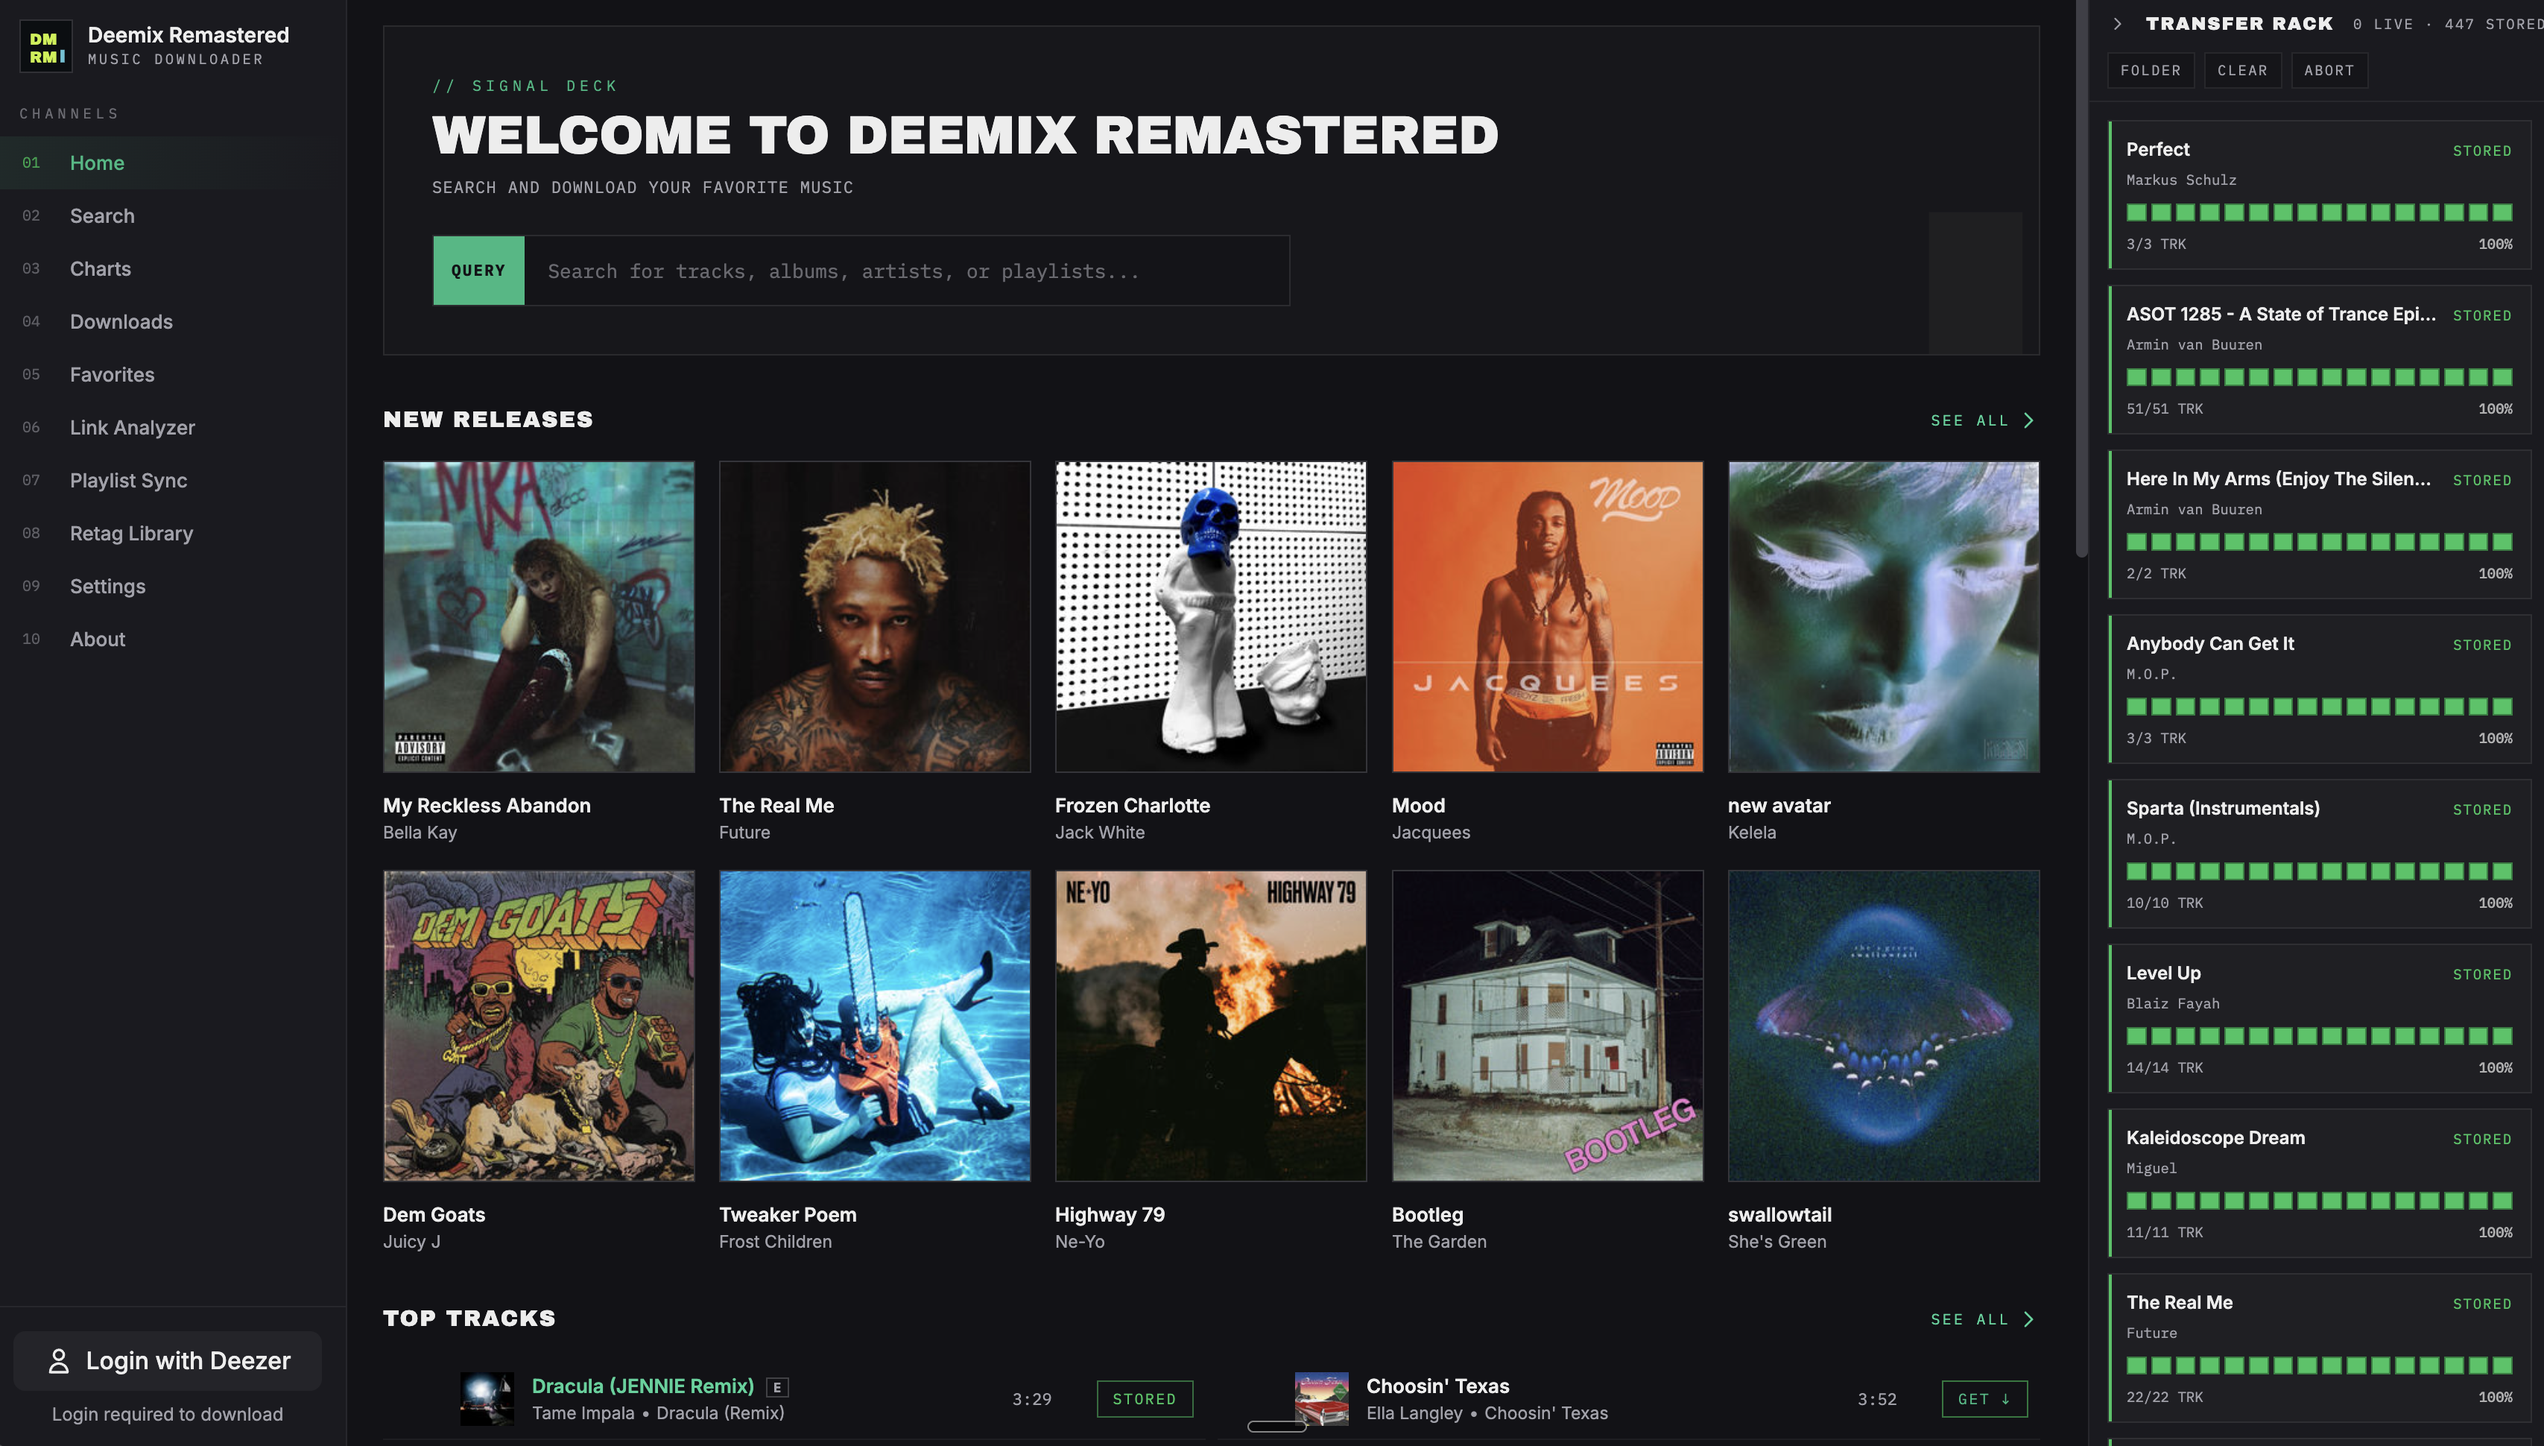
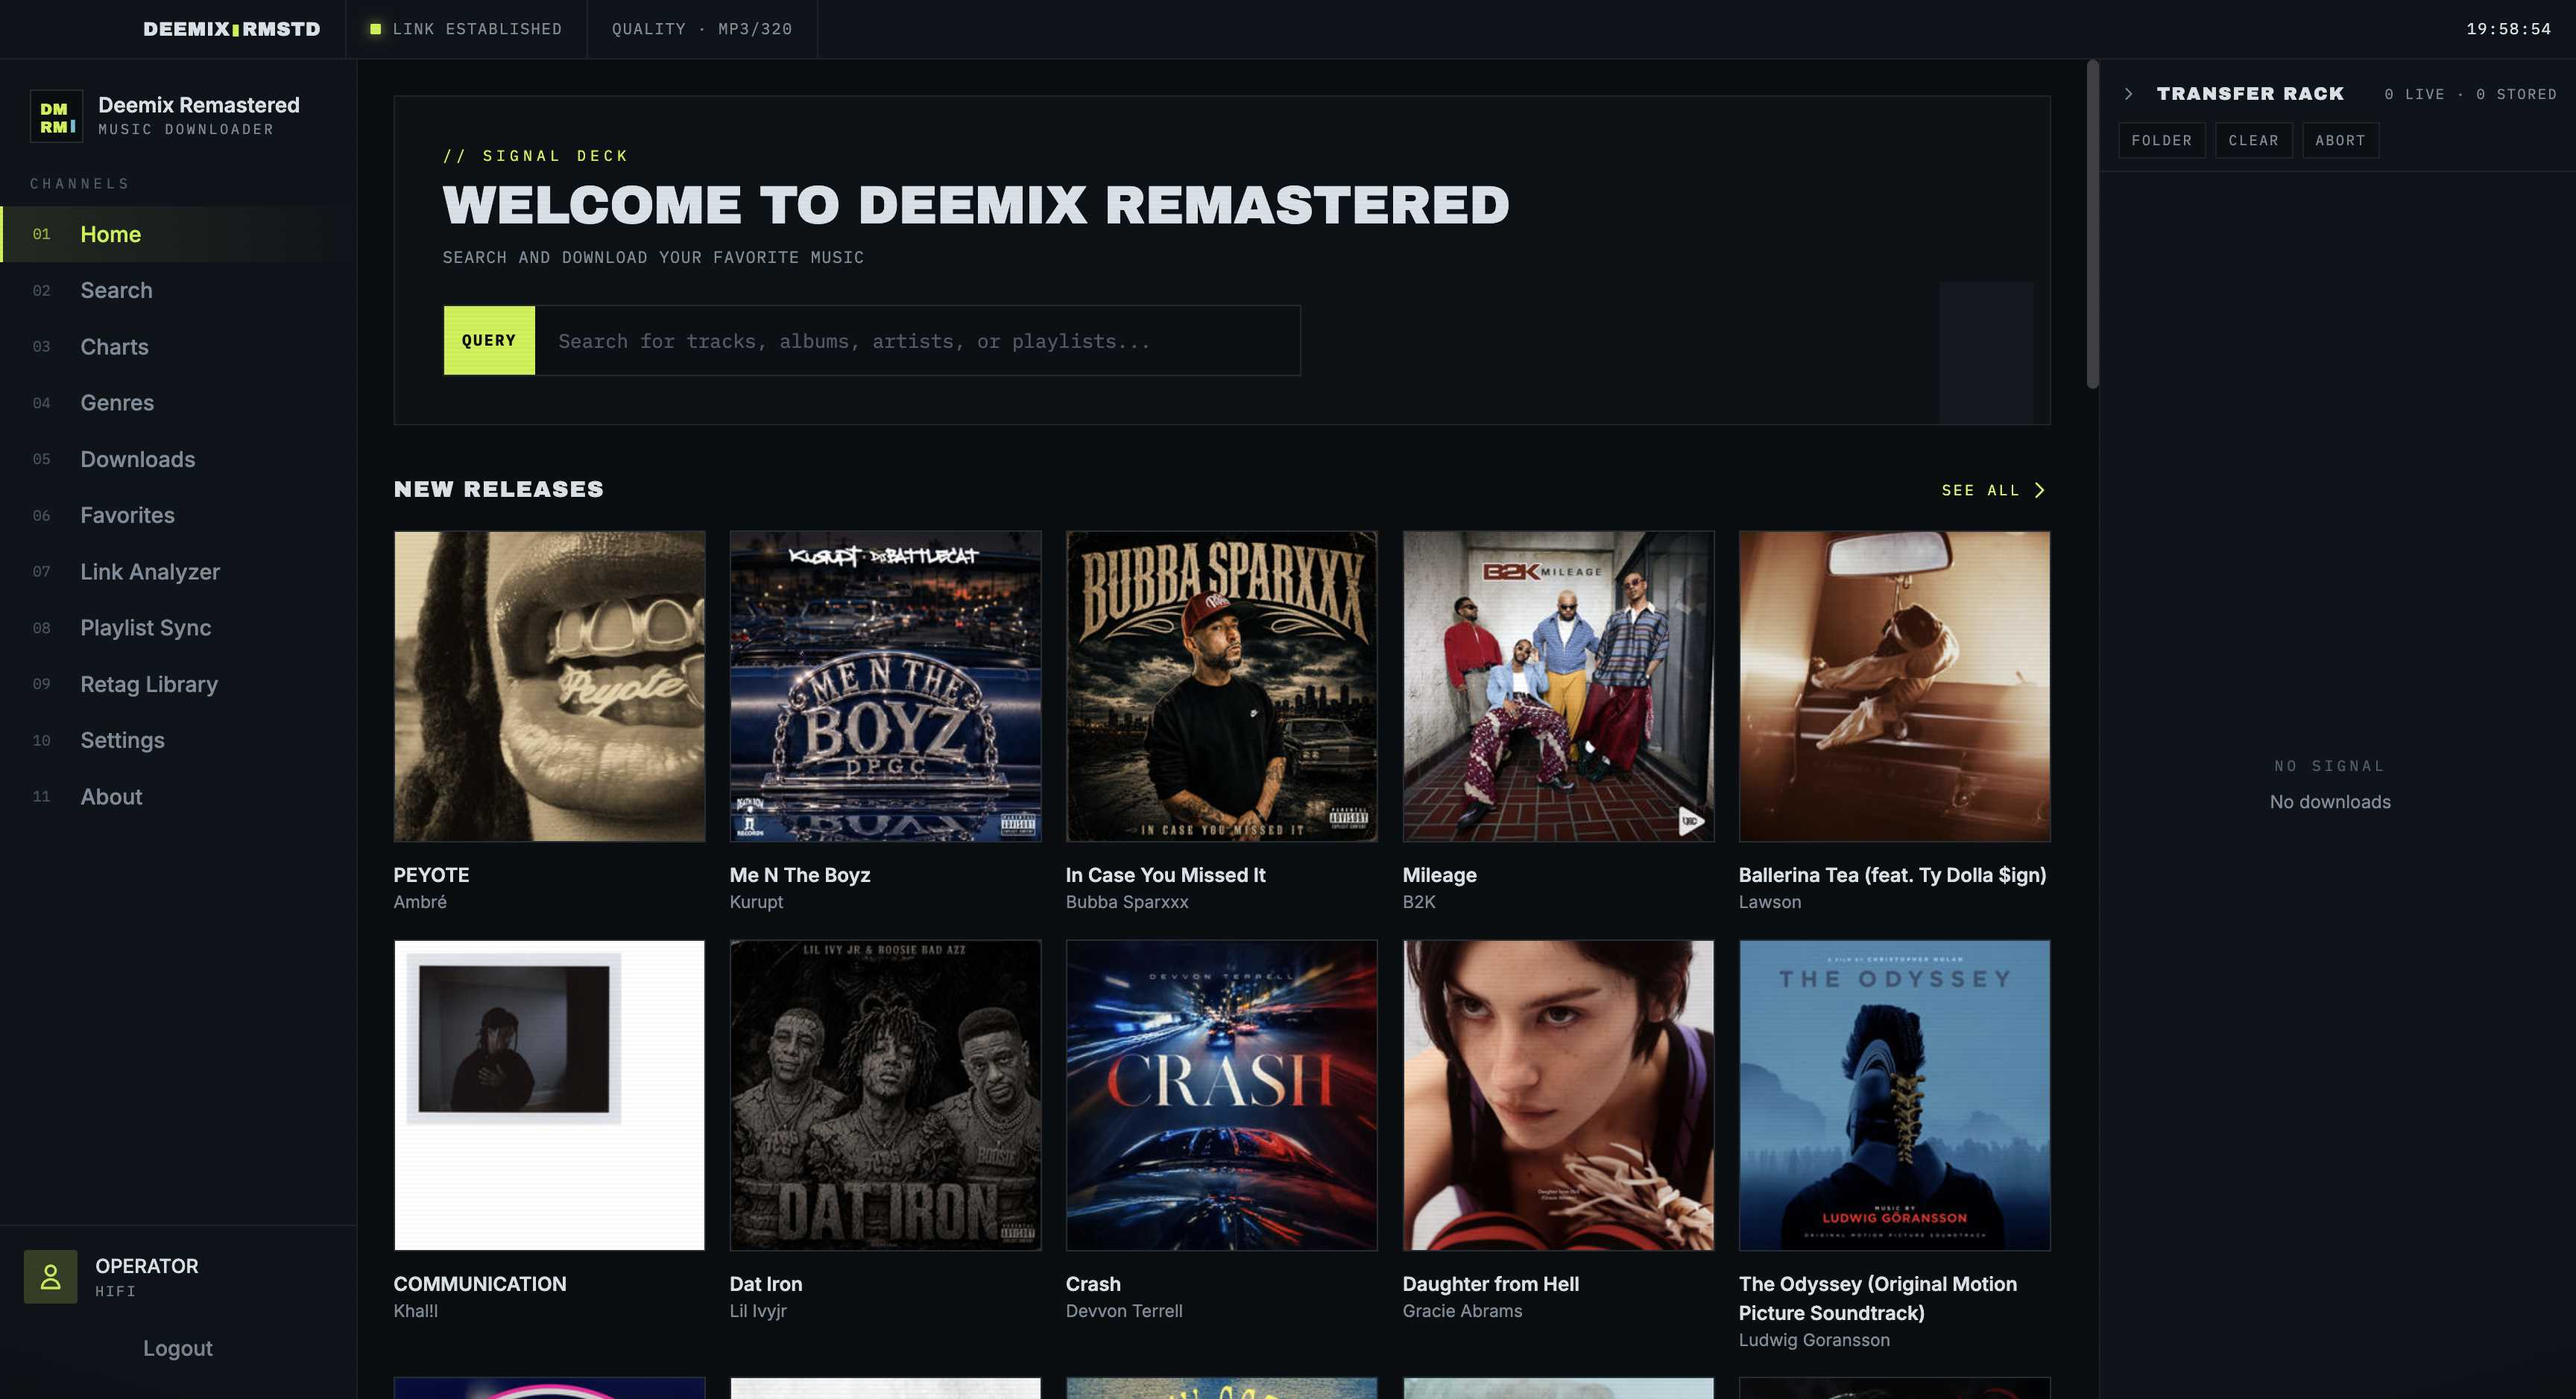
docs: refresh screenshot gallery from the live 2.1.0 build; Home leads
- Home, Link Analyzer, Favorites (now the artists tab), and both Settings
  shots recaptured on 2.1.0 — current sidebar (Genres channel), LINK
  ESTABLISHED state, account name redacted to OPERATOR in every capture
- Gallery reordered: Home first, then Downloads and Favorites, then the
  Qobuz/2.1.0 set, then the rest
- favorites-tracks.png replaced by favorites-artists.png
- Downloads and Playlist Sync shots unchanged pending repopulated state

diff --git a/README.md b/README.md
@@ -162,6 +162,24 @@ Arabic, Chinese (Simplified & Traditional), Croatian, English, Filipino, French,
 ## Screenshots
 
 <p align="center">
+  <img src="docs/screenshots/home-new-releases.png" alt="Home - New Releases" width="800" />
+  <br />
+  <em>Home — The Signal Deck console: dated new releases and charts under the live status-strip title bar, with the Transfer Rack on the right</em>
+</p>
+
+<p align="center">
+  <img src="docs/screenshots/downloads-statistics.png" alt="Downloads & Statistics Dashboard" width="800" />
+  <br />
+  <em>Downloads — Status edge-lights, mono telemetry, and per-album completion, with the statistics dashboard one click away</em>
+</p>
+
+<p align="center">
+  <img src="docs/screenshots/favorites-artists.png" alt="Favorites - Favorite Artists" width="800" />
+  <br />
+  <em>Favorites — Your Deezer favorites imported in one click; pin any artist or playlist to sync, download anything with GET ↓</em>
+</p>
+
+<p align="center">
   <img src="docs/screenshots/qobuz-channel-q.png" alt="Channel Q - Qobuz Discover" width="800" />
   <br />
   <em>Channel Q (v2.1.0) — The Qobuz discover tab: your Purchases and Favorites with quality badges (16/44.1, 24/44.1…), editorial feeds, and genre filter chips</em>
@@ -186,39 +204,21 @@ Arabic, Chinese (Simplified & Traditional), Croatian, English, Filipino, French,
 </p>
 
 <p align="center">
-  <img src="docs/screenshots/settings-qobuz.png" alt="Settings - Qobuz Connect" width="800" />
-  <br />
-  <em>Settings → Qobuz (v2.1.0) — One-click account connect via a real Qobuz login window; your session is stored encrypted, never in files</em>
-</p>
-
-<p align="center">
-  <img src="docs/screenshots/home-new-releases.png" alt="Home - New Releases" width="800" />
-  <br />
-  <em>Home — The Signal Deck console: new releases and charts under the live status-strip title bar, with the Transfer Rack on the right</em>
-</p>
-
-<p align="center">
-  <img src="docs/screenshots/downloads-statistics.png" alt="Downloads & Statistics Dashboard" width="800" />
-  <br />
-  <em>Downloads — Status edge-lights, mono telemetry, and per-album completion, with the statistics dashboard one click away</em>
-</p>
-
-<p align="center">
-  <img src="docs/screenshots/favorites-tracks.png" alt="Favorites - Favorite Tracks" width="800" />
-  <br />
-  <em>Favorites — Your Deezer favorites as console rows with GET ↓ buttons, sortable and filterable per tab</em>
-</p>
-
-<p align="center">
   <img src="docs/screenshots/link-analyzer.png" alt="Link Analyzer - LINK command bar" width="800" />
   <br />
-  <em>Link Analyzer — Paste any Deezer, Spotify, or Qobuz URL into the LINK command bar for details and direct downloads</em>
+  <em>Link Analyzer — Paste any Deezer, Spotify, or Qobuz URL into the LINK command bar for full metadata and one-click downloads</em>
 </p>
 
 <p align="center">
   <img src="docs/screenshots/playlist-sync-artists.png" alt="Playlist Sync - Synced Artists" width="800" />
   <br />
   <em>Playlist &amp; Artist Sync — Pin playlists and artists to sync on a schedule; per-artist status badges, filters, and live progress</em>
+</p>
+
+<p align="center">
+  <img src="docs/screenshots/settings-qobuz.png" alt="Settings - Qobuz Connect" width="800" />
+  <br />
+  <em>Settings → Qobuz (v2.1.0) — One-click account connect via a real Qobuz login window; your session is stored encrypted, never in files</em>
 </p>
 
 <p align="center">
